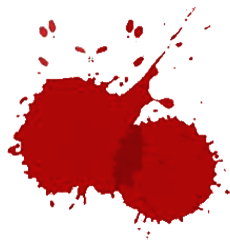
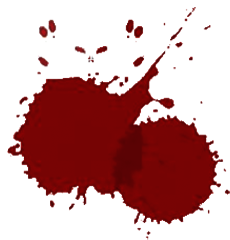
Add player death vfx

diff --git a/src/managers/VFXManager.ts b/src/managers/VFXManager.ts
@@ -15,13 +15,13 @@ export default class VFXManager extends AManager {
 
   public init(): void {}
 
-  public draw(): void {
+  public draw(_deltaTime: number): void {
     for (const [id, effect] of this.effects) {
       if (effect.startTime + effect.duration * 1000 < Date.now()) {
         this.effects.delete(id);
         continue;
       }
-      effect.render();
+      effect.render(_deltaTime);
     }
   }
 
@@ -48,8 +48,9 @@ export default class VFXManager extends AManager {
   }
 
   public drawBloodPool(pos: WorldPosition, duration: number = 30): void {
-    const alpha = Math.random() * 0.4 + 0.4;
-    const sizeDeviation = 0.5 + Math.random();
+    const alpha = Math.random() * 0.4 + 0.6;
+    const sizeDeviation = 0.7 + Math.random() * 0.3;
+    const angle = 2 * Math.PI * Math.random();
 
     this.effects.set(this.effectIdCount++, {
       duration,
@@ -64,7 +65,34 @@ export default class VFXManager extends AManager {
           GRID_CONFIG.TILE_SIZE * sizeDeviation,
           GRID_CONFIG.TILE_SIZE * sizeDeviation,
           ZIndex.GROUND_EFFECTS,
-          2 * Math.PI * Math.floor(Math.random()),
+          angle,
+          alpha,
+        );
+      },
+      startTime: Date.now(),
+    });
+  }
+
+  public drawBloodOnScreen(duration: number = 10): void {
+    let alpha = 0;
+
+    this.effects.set(this.effectIdCount++, {
+      duration,
+      render: (_deltaTime) => {
+        const bloodSprite = this.gameInstance.MANAGERS.AssetManager.getImageAsset("IFXBloodScreen");
+        if (!bloodSprite) return;
+
+        if (alpha < 1) alpha += _deltaTime;
+        else alpha = 1;
+
+        this.gameInstance.MANAGERS.DrawManager.queueDraw(
+          0,
+          0,
+          bloodSprite,
+          this.gameInstance.MANAGERS.CameraManager.viewportWidth,
+          this.gameInstance.MANAGERS.CameraManager.viewportHeight,
+          ZIndex.EFFECTS,
+          0,
           alpha,
         );
       },

diff --git a/src/entities/Player.ts b/src/entities/Player.ts
@@ -157,9 +157,7 @@ export default class Player extends AEntity {
   public damage(amount: number): void {
     this.health -= amount;
     if (this.health <= 0) {
-      this.gameInstance.MANAGERS.AssetManager.playAudioAsset("APlayerDie", "sound");
-      alert("YOU DED");
-      // TODO: DIE
+      this.die();
     } else {
       this.gameInstance.MANAGERS.AssetManager.playAudioAsset("APlayerHurt", "sound");
     }
@@ -218,5 +216,11 @@ export default class Player extends AEntity {
 
     if (this.checkHasCollisions(futurePos)) return;
     else this.setWorldPosition(futurePos);
+  }
+
+  private die(): void {
+    this.gameInstance.MANAGERS.VFXManager.drawBloodOnScreen();
+    this.gameInstance.MANAGERS.AssetManager.playAudioAsset("APlayerDie", "sound");
+    this.gameInstance.MANAGERS.LevelManager.destroyPlayer();
   }
 }

diff --git a/src/managers/DrawManager.ts b/src/managers/DrawManager.ts
@@ -72,7 +72,7 @@ export default class DrawManager extends AManager {
     this.gameInstance.update(deltaTime); // TODO: Extract update from render loop when I have time
     this.renderDrawQueue();
     this.gameInstance.MANAGERS.UIManager.draw(this.fps);
-    this.gameInstance.MANAGERS.VFXManager.draw();
+    this.gameInstance.MANAGERS.VFXManager.draw(deltaTime);
     this.gameInstance.MANAGERS.LevelManager.drawEntities();
 
     this.rafId = requestAnimationFrame(this.renderLoop.bind(this));

diff --git a/src/config/assets.ts b/src/config/assets.ts
@@ -47,6 +47,7 @@ export const DEF_ASSETS_IMAGE = {
   IZombie1: "/images/zombie.png", // https://fightswithbears.itch.io/2d-topdown-survival-character
   // FX
   IFXBloodSplat: "/images/pi58p94iB.png", // https://www.clipartbest.com/clipart-pi58p94iB
+  IFXBloodScreen: "/images/blood-png-7140.png", // https://www.freeiconspng.com/img/7140
   // Textures
   ITextureGround: "/images/Texture_11_Diffuse.png", // https://oleekconder.itch.io/stylized-nature-textures
   // Shop

diff --git a/src/types/Effects.ts b/src/types/Effects.ts
@@ -1,17 +1,5 @@
-import type { WorldPosition } from "../config/gameGrid";
-
 export interface Effect {
   duration: number;
-  render: VoidFunction;
+  render: (_deltaTime: number) => void;
   startTime: number;
-}
-
-export interface EffectShootLine extends Effect {
-  from: WorldPosition;
-  to: WorldPosition;
-  color: string;
-}
-
-export interface EffectBloodPool extends Effect {
-  pos: WorldPosition;
 }

diff --git a/src/managers/LevelManager.ts b/src/managers/LevelManager.ts
@@ -217,6 +217,10 @@ export default class LevelManager extends AManager {
     if (type === "block") this.updatePathFindingGrid();
   }
 
+  public destroyPlayer(): void {
+    this.player = undefined;
+  }
+
   // Blocks
   // ==================================================
 
